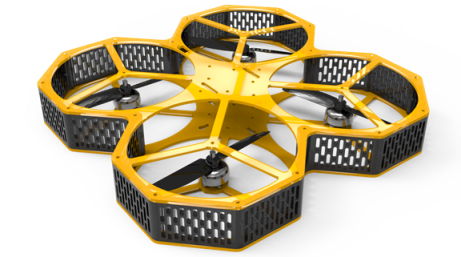
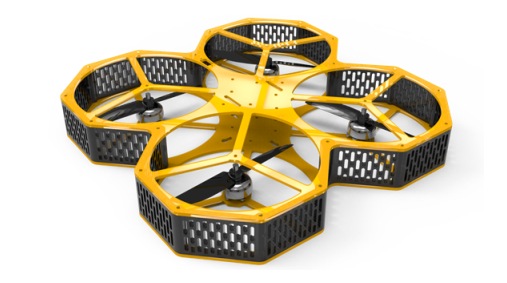
fix: картинки

diff --git a/assets/js/components.js b/assets/js/components.js
@@ -1,18 +1,18 @@
 // Общие HTML-компоненты страниц. Зависят от data.js.
 
 const btn = (label, form = 'f1', cls = 'btn-primary') =>
-  /* HTML */ `<button class="btn ${cls}" data-form="${form}" data-cta="${label}">
-    ${label}
-  </button>`;
+  /* HTML */ `<button class="btn ${cls}" data-form="${form}" data-cta="${label}">${label}</button>`;
 const link = (label, path, cls = 'btn-outline') =>
   /* HTML */ `<a class="btn ${cls}" href="#/${path}">${label} <span>→</span></a>`;
 const visual = (p) =>
-  /* HTML */ `<span class="placeholder-icon" aria-hidden="true">${p.icon}</span>${p.image
+  /* HTML */ `<span class="placeholder-icon" aria-hidden="true" ${p.image ? 'hidden' : ''}
+      >${p.icon}</span
+    >${p.image
       ? /* HTML */ `<img
           src="${p.image}"
           alt="${p.name}"
           loading="lazy"
-          onerror="this.style.display='none'"
+          onerror="this.style.display='none'; this.previousElementSibling.hidden=false"
         />`
       : ''}`;
 function productCard(p, i) {

diff --git a/index.html b/index.html
@@ -20,8 +20,8 @@
     <a class="skip-link" href="#main">Перейти к содержимому</a>
     <div class="topline">
       <div class="container topline-inner">
-        <span>Разработка и производство решений для образования</span
-        ><a href="mailto:aviatechnosoft@yandex.ru">aviatechnosoft@yandex.ru</a>
+        <span>Разработка и производство решений для образования</span>
+        <a href="mailto:aviatechnosoft@yandex.ru">aviatechnosoft@yandex.ru</a>
       </div>
     </div>
     <header class="site-header">

diff --git a/assets/css/styles.css b/assets/css/styles.css
@@ -526,6 +526,11 @@ p {
   font-size: 70px;
   color: rgba(12, 83, 133, 0.45);
 }
+/* Не показываем запасную иконку одновременно с фотографией. */
+.product-visual .placeholder-icon[hidden],
+.inner-visual .placeholder-icon[hidden] {
+  display: none;
+}
 .product-body {
   padding: 22px;
   flex: 1;

diff --git a/assets/js/pages.js b/assets/js/pages.js
@@ -23,9 +23,6 @@ function home() {
               учреждений
             </div>
           </div>
-          <div class="orbit">
-            <span>РАЗРАБОТКА<br />И ПРОИЗВОДСТВО</span>
-          </div>
         </div>
       </div>
     </section>
